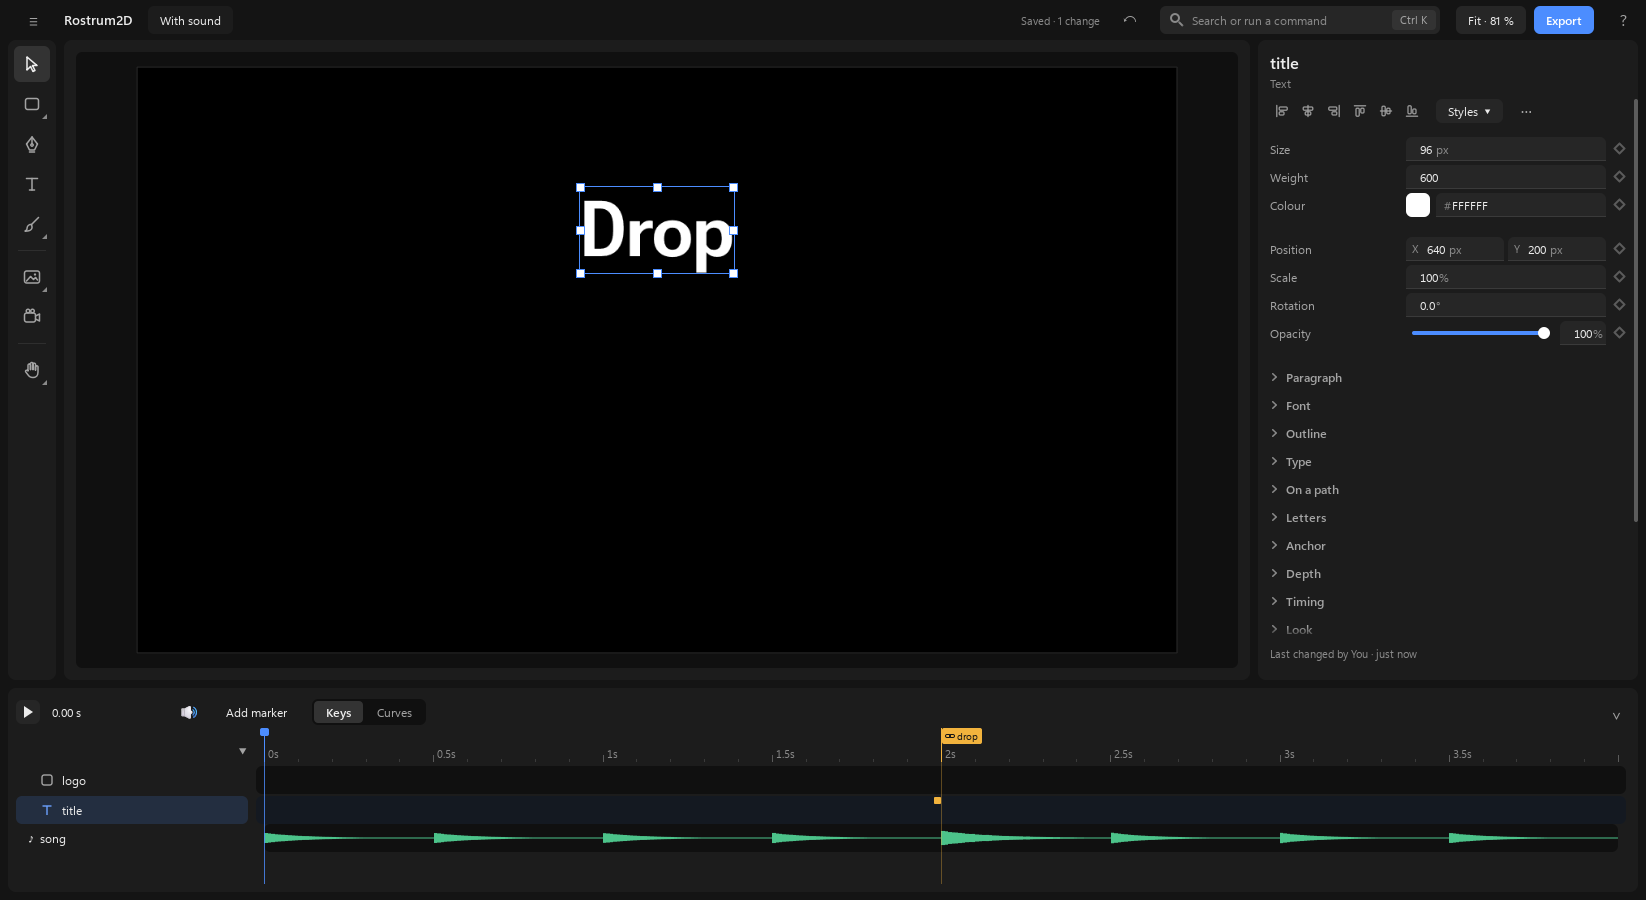
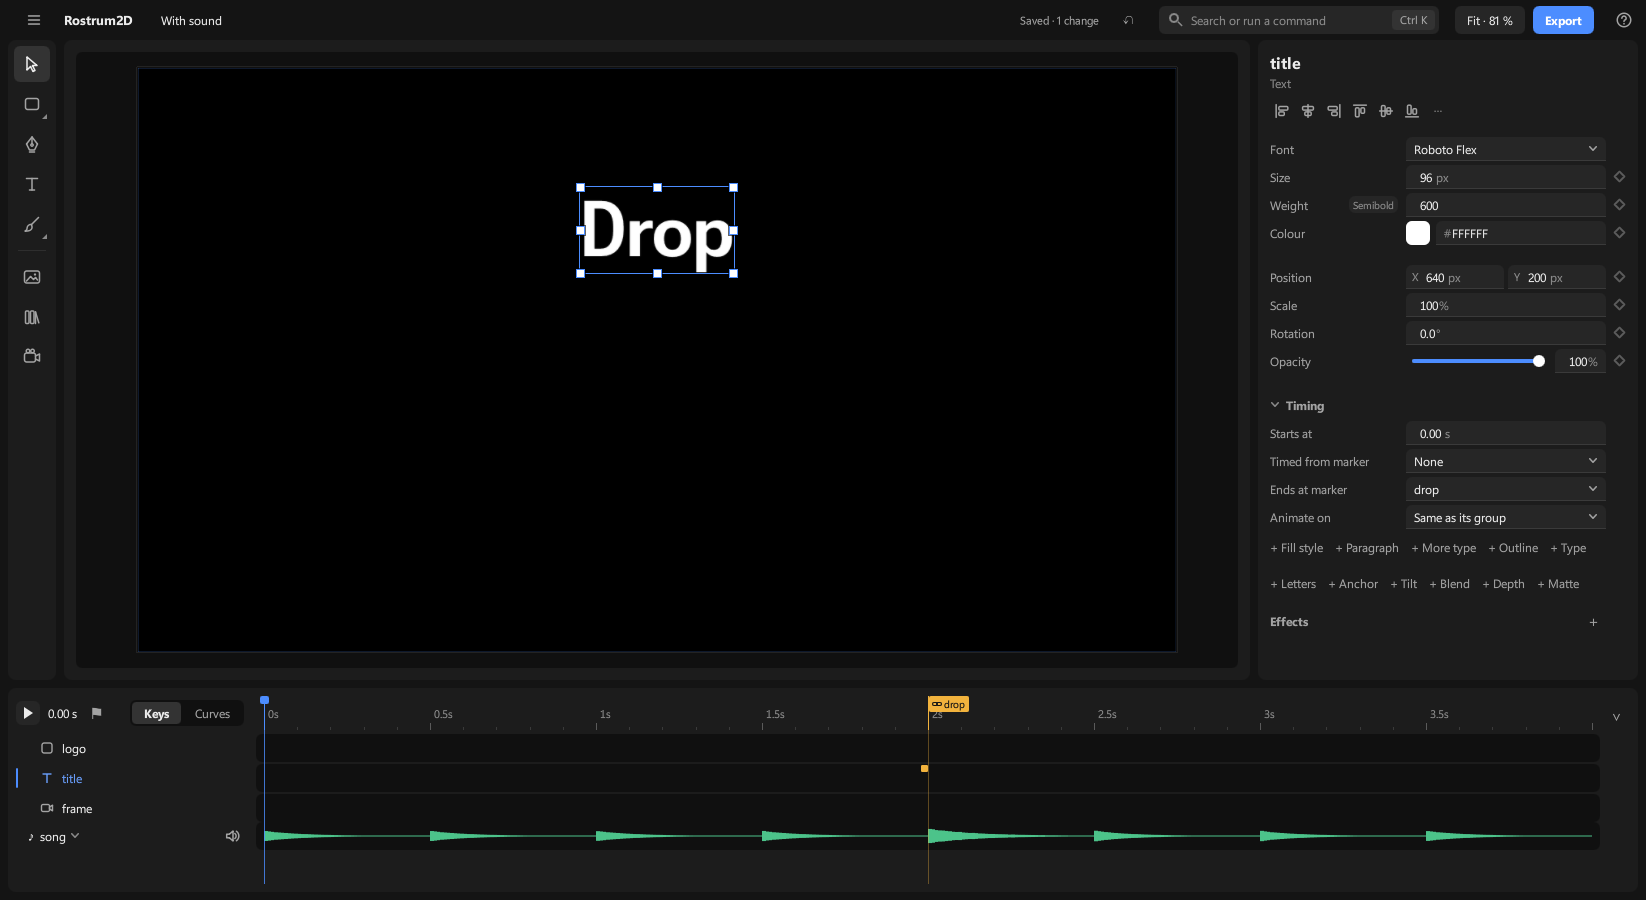
fix(kit): no binding loops in NumberField / text editor; docs: guides match today's screen, pictures retaken

diff --git a/apps/2d/screen/qml/CreateOverlay.qml b/apps/2d/screen/qml/CreateOverlay.qml
@@ -100,9 +100,10 @@ Item {
         readonly property bool on: ov.create.typing && ov.box.kind === "text"
         visible: on
         x: on ? ov.fromComp(ov.box.x, ov.box.y).x : 0; y: on ? ov.fromComp(ov.box.x, ov.box.y).y : 0
-        width: on ? (ov.box.wrap ? ov.box.w * ov.scale : Math.max(ov.box.w * ov.scale, edit.contentWidth) + 4) : 0
+        width: on ? (ov.box.wrap ? ov.box.w * ov.scale : Math.max(ov.box.w * ov.scale, words.contentWidth) + 4) : 0     // the words' own width, measured apart: edit.contentWidth reads back this width (binding loop)
         height: on ? Math.max(ov.box.h * ov.scale, edit.contentHeight) : 0
         property alias text: edit.text
+        Text { id: words; visible: false; text: edit.text; font: edit.font }     // the one place the typed width is measured
         HaloLine { anchors.fill: parent; anchors.margins: -4; radius: 2 }
         TextEdit {
             id: edit

diff --git a/apps/2d/guides/the-screen.md b/apps/2d/guides/the-screen.md
@@ -74,12 +74,12 @@ The whole list: Group, Ungroup, Crop to a box, Auto layout, Make swap set, Make 
 
 ## 5. The timeline is the layers list
 
-1. Along the bottom: one header row, then a row for each layer. The names on the left are your layers, newest on top; the bar beside each name shows when the layer is on screen, with its keys as diamonds (keys less than a diamond's width apart share one diamond with a second peeking out behind it; zoom in and they come apart).
+1. Along the bottom: one header row, then a row for each layer. The names on the left are your layers, newest on top; a layer that has keys shows a slim bar beside its name, from its first key to its last, with the keys as diamonds on it (a layer with no keys has no bar; its **Starts at** and **Ends at** are in the **Timing** group of the settings panel) (keys less than a diamond's width apart share one diamond with a second peeking out behind it; zoom in and they come apart).
 2. The header row has, over the layer names, the play button, the time (rest the pointer on it for the frame and the scene's length), the flag button **Add marker** (in a project folder), and **Keys** / **Curves**. Over the layer rows it is the ruler: drag on it to move through time. **Space** plays and stops.
 3. A name's small arrow folds or opens what is inside a layer: a group's layers, its keyed settings, its effects and masks.
 4. Click a name to pick the layer. **Ctrl+click** adds a layer to what is picked or takes it out, and **Shift+click** picks every layer from the last one you clicked to this one; a picked layer's name turns blue, with a thin blue line at its left, and its bar is drawn brighter with a blue outline. Double-click a name (or press **F2**) to rename it. A long name is cut short in the list; point at it to read it whole. Drag it up or down to change what sits in front, or onto a group to put it inside. A line shows where it will land.
 5. At the right of a name sit a **lock** and an **eye**. They show when you point at the row, and stay visible while they are on. A **locked** layer cannot be picked or moved on the canvas, and everything refuses it until you unlock it. A **hidden** layer is not drawn, in the preview or in an export, and its name and bar fade. Click to switch; it is one step.
-6. Drag the middle of a bar to move the layer in time, and an end to trim it. When several layers are picked, dragging one picked bar moves all the picked bars together. Drag a diamond to move a key. They snap to the playhead and to markers. Click a diamond to change how that key eases; **Curves** shows the curves.
+6. On a layer that has a bar, drag the middle of the bar to move the layer in time, and an end to trim it. When several layers are picked, dragging one picked bar moves all the picked bars together. Drag a diamond to move a key. They snap to the playhead and to markers. Click a diamond to change how that key eases; **Curves** shows the curves.
    - **Picking keys:** click a diamond to pick it, **Ctrl+click** to add another (on any layer) or take it out, **Shift+click** to pick every key between on that row. A diamond on a layer's bar stands for all that layer's keys at that moment. Drag one picked key and all of them move together, as one step. **Delete** removes the picked keys. **Esc** lets go of the keys first, then of the layers.
    - **A** opens the picked layers to show only their animated settings; **A** again folds them.
 7. **The timeline has two heights.** The full height shows every layer. The **compact** height shows only the header row and the picked layer's row, to give the picture the room; the name there is a menu of all your layers. Switch with the button at the right end of the ruler, or drag the timeline's top edge. Each tool remembers its own height: Select and Pen the full one, Brush the compact one, so picking a tool gives you the right amount of picture. A tall or square frame (a phone-shaped 1080 × 1920 or 1080 × 1350 picture) keeps the timeline across the bottom, as After Effects does, as long as the picture stays a good size; only when that would shrink the picture too much does the timeline move up beside it, with one height and no button.

diff --git a/apps/2d/guides/timing-to-music.md b/apps/2d/guides/timing-to-music.md
@@ -27,10 +27,10 @@ When your project has music, voice or sound made in RostrumSound, Rostrum2D play
 ## 4. Picking which sound plays
 
 1. Click an empty part of the canvas (outside every layer). The settings panel shows the scene's settings.
-2. Open the **Sound** group and click **Soundtrack**.
-3. Pick a song from the list. The first choice, **Default**, is the project's first RostrumSound song (named in brackets).
+2. Click **+ Sound** under the scene's settings. The **Soundtrack** setting appears, showing **Main mix:** and the name of the project's main song.
+3. Click **Soundtrack** to open its list. The first choice is **Main mix: <song>** (the project's main RostrumSound song, the one that plays unless you pick another); under it comes every RostrumSound song of the project, each by its name. Click one to play that song with this scene.
 
-The Soundtrack setting is there only when the project has at least one RostrumSound song.
+**+ Sound** and the Soundtrack setting are there only when the project has at least one RostrumSound song.
 
 ## 5. Showing the beats
 
@@ -47,20 +47,24 @@ The Soundtrack setting is there only when the project has at least one RostrumSo
 When you drag a layer's bar, its ends or a key in the timeline, it snaps to things nearby:
 
 - markers first (the flags on the ruler), then the playhead, then the ends of other bars and other keys, then the beats of the music;
-- a small label by the pointer says what it caught, for example "+15 f · beat 3" or "+18 f · drop";
+- a pink line down the timeline shows what it caught;
 - hold **Ctrl** while you drag to turn snapping off, so it moves by whole frames.
+
+A layer has a bar once it has keys (see [the-screen.md](the-screen.md)).
 
 ## 7. Tying a bar to a marker from the music
 
 Markers made in RostrumSound (for example "drop") are shared with the whole project and show as flags on the ruler.
 
-![The title's bar end dropped on the "drop" marker: a small yellow flag on the tied end](pictures/tied-to-marker.png)
+![The title's end tied to the "drop" marker: a small yellow mark at the tied end, and Ends at marker shows drop in the settings panel](pictures/tied-to-marker.png)
 
 1. Drag the start or the end of a layer's bar towards the marker's line.
-2. Let go when it snaps to the marker. A small yellow flag appears on that end: the end is now **tied** to the marker.
+2. Let go when it snaps to the marker. A small yellow mark appears on that end: the end is now **tied** to the marker. The **Timing** group of the settings panel says so too: **Ends at marker** (or **Timed from marker**, for the start) shows the marker's name.
 3. When the marker moves (someone changes the song in RostrumSound, or you drag the flag), the tied end moves with it. You don't have to do anything.
 
 You can tie a whole bar the same way: drag its middle so that its start lands on the marker.
+
+A layer with no keys has no bar to drag. Pick it, open **Timing** in the settings panel (click **+ Timing** if it is folded away) and pick the marker in **Timed from marker** (its start) or **Ends at marker** (its end).
 
 ## 8. Jumping from beat to beat
 

diff --git a/apps/2d/guides/characters-sound-camera.md b/apps/2d/guides/characters-sound-camera.md
@@ -69,11 +69,12 @@ A style keeps the look of a text (font, size, weight, colour ...) so other texts
 Press **Ctrl+L**, or click **Library** (the books icon) in the tool rail, to open the **Library** beside the tool rail, over the left edge of the canvas; the rail stays where it is and the canvas keeps its size. Press again to close.
 
 - **Brand kit** keeps the project's **colours**, **text styles** and **logos**. Every scene of the project sees them. It needs the scene to be in a project; if it is not, the drawer says so.
+- The Library shows only what fits what you have picked. **Logos** (with **+ Logo…**) is always there. Pick a shape or path and **Colours** (with **+ This colour**) joins it; pick a text and **Text styles** (with **+ This text's style**) joins it; pick a group and you see only Logos. A section with nothing in it is not shown until you pick something that can fill it.
 - Click a colour: the selected shapes, paths and texts take it. Click a text style: the selected texts follow it. Click a logo: it goes onto the canvas.
-- To add: select a text and click **+ This text's style**, or select a layer and click **+ This colour**. Click **+ Logo…** to keep a logo file. A section with nothing in it is not shown: select a layer and **+ This colour** (and its **Colours** heading) appear.
-- **This scene · text styles** lists the styles made in this scene.
+- To add: pick a shape and click **+ This colour**, pick a text and click **+ This text's style**, or click **+ Logo…** to keep a logo file.
+- **This scene's text styles** lists the styles made in this scene (it shows only when there are some).
 
 ## Adding a file
 
 In the tool rail, the picture icon is **Add from a file…** (Ctrl+I): one door for pictures, videos, SVG, Lottie, PDFs and Photoshop files. It opens the file picker at once and the file comes in straight away (see [importing.md](importing.md)); a Figma frame comes in by pasting its link. The **Library** (Ctrl+L) is the books icon under it.
-- **3D render** adds a Rostrum3D render. It is there only when Rostrum3D is installed.
+Once a Rostrum3D item of the project has a finished render, the picture icon opens a short list instead: **Add from a file…** first, then each rendered item by its name. Click an item's name to place its render.

diff --git a/apps/2d/UX_SPEC.md b/apps/2d/UX_SPEC.md
@@ -654,6 +654,11 @@ settings panel on the right. Shortcuts are written Ctrl / Alt / Shift; on the Ma
   background; the screen never freezes) and then one line: "Placed logo.svg: 14 layers". If anything didn't come
   across, the line says how many, with **Show what** (the list in words: "2 gradients on outlines, drawn as flat
   colour"). A fully clean import closes the panel by itself after 3 s. Choosing files uses the system's own file window.
+  *(Built, 2026-10-24:)* the count is every layer made ("Imported scene.psd: 14 layers"); each kind that didn't come
+  across is one line with how many layers it touched; what came across in another form is said above that list in plain
+  words ("Came across as a mask: sky, sun…", "Kept hidden, as in the file: hidden note") and keeps the panel open; a PDF's
+  text comes in as one layer per line; a Photoshop file works in a scene with no project yet (pictures kept in a temporary
+  folder); a Figma import without a token says "Type your Figma token in the Token box".
 - **Undo and adjust:** the whole placement is one step.
 - **Keys:** Ctrl+I; drop.
 - **Agent:** `run_import {file, page, at}`; `layer.add {type: image|video}`.
@@ -1623,8 +1628,8 @@ operation is one (`mask.make`).
 
 ### Missing files and fonts · Now
 - A missing picture or font shows in Problems (3.36) and on its layer's row (a small warning). **Find it…** relinks
-  every layer using that file at once (`asset.relink` *(new)*); a missing font offers **Use another font** (a list) or installs from the brand
-  kit.
+  every layer using that file at once (`asset.relink` *(new)*); a missing font offers **Use another font** (a list in the problem's row; one pick sets it on every text using that font, one undo step: `font.replace`) or installs from the brand
+  kit. The canvas never goes blank for it: the text shows as its box with a dashed red edge and the font's name; a whole-film export refuses, naming the texts.
 
 ## 3.33 Help and learning
 

diff --git a/apps/2d/guides/drawing.md b/apps/2d/guides/drawing.md
@@ -80,7 +80,7 @@ Press **I**, or hold **Alt** while painting. The pointer becomes a picker, and a
 ## 4. Select strokes, then move, copy, paste or delete them
 
 1. Press **S** (or choose **Select**), then drag a loop round the strokes and fills you want; or hold **Ctrl** and drag while painting. Anything with most of its length inside the loop is picked, and outlined.
-2. A small strip over the canvas shows **Copy**, **Paste** and **Delete**. Drag the picked strokes to move them; drag a corner of their box to scale them and the knob to turn them. They stay strokes, so they stay sharp.
+2. A small strip over the canvas says how many strokes are picked and shows **Copy** and **Delete**; **Paste** joins them only after you have copied something. Drag the picked strokes to move them; drag a corner of their box to scale them and the knob to turn them. They stay strokes, so they stay sharp.
 3. **Ctrl+C** copies them and **Ctrl+V** pastes them a little down and right of the originals; the pasted copy is what stays picked, so **Delete**, a drag or a turn acts on it, not on the original. **Delete** removes the picked strokes. A single straight stroke can be picked and dragged too. **Esc** lets go.
 
 Each of these is one change, so **Ctrl+Z** takes back a move, a paste or a delete. Only paint layers that are not locked can be picked from.

diff --git a/apps/2d/guides/first-animation.md b/apps/2d/guides/first-animation.md
@@ -30,8 +30,8 @@ This page takes you from an empty project to something that moves, and shows you
 
 ## 4. The timeline is the layers list
 
-1. The names on the left of the timeline are your layers, newest on top. The bar beside each name shows when that layer is on screen. A new layer's bar runs the whole length.
-2. Drag the middle of a bar to show the layer later or earlier. Drag an end of the bar to start it later or end it sooner. A bar snaps to the playhead and to markers (see [the-screen.md](the-screen.md)).
+1. The names on the left of the timeline are your layers, newest on top. A layer gets a slim bar beside its name once it has keys (part 5): the bar runs from its first key to its last. A new layer has no keys yet, so no bar yet.
+2. Once a layer has a bar, drag the middle of it to show the layer later or earlier, or drag an end of the bar to start it later or end it sooner. A bar snaps to the playhead and to markers (see [the-screen.md](the-screen.md)). Before it has keys, the **Timing** group of the settings panel has the layer's **Starts at** and **Ends at**.
 3. The ruler above the bars counts seconds. The blue marker is the **playhead**, the moment you are looking at. Click or drag on the ruler to move it. The time shows beside the play button, for example "1.00 s".
 
 ## 5. Make a value move, right where you are

diff --git a/apps/2d/guides/README.md b/apps/2d/guides/README.md
@@ -13,7 +13,7 @@ Short pages in everyday words, with the names of the real buttons. The app is on
 7. [Timing to music](timing-to-music.md): hear the project's sound from RostrumSound, the Sound row, mute, pick the soundtrack, show beats, snap and tie to beats and markers, jump beat to beat, open the song in RostrumSound.
 8. [Text on a path](text-on-a-path.md): draw a path, put text on it, slide and align it, animate along it.
 9. [The curve editor](curve-editor.md): open Curves, read the lines, drag keys and handles, change an ease, the ease keys.
-10. [Characters, sound, camera and styles](characters-sound-camera.md): bones, poses, lip sync and blinks, Add a sound here, the Camera tool, text Styles, the Library and Brand kit, the Media group.
+10. [Characters, sound, camera and styles](characters-sound-camera.md): bones, poses, lip sync and blinks, Add a sound here, the Camera tool, text Styles, the Library and Brand kit, Add from a file.
 
 ## For agents
 
